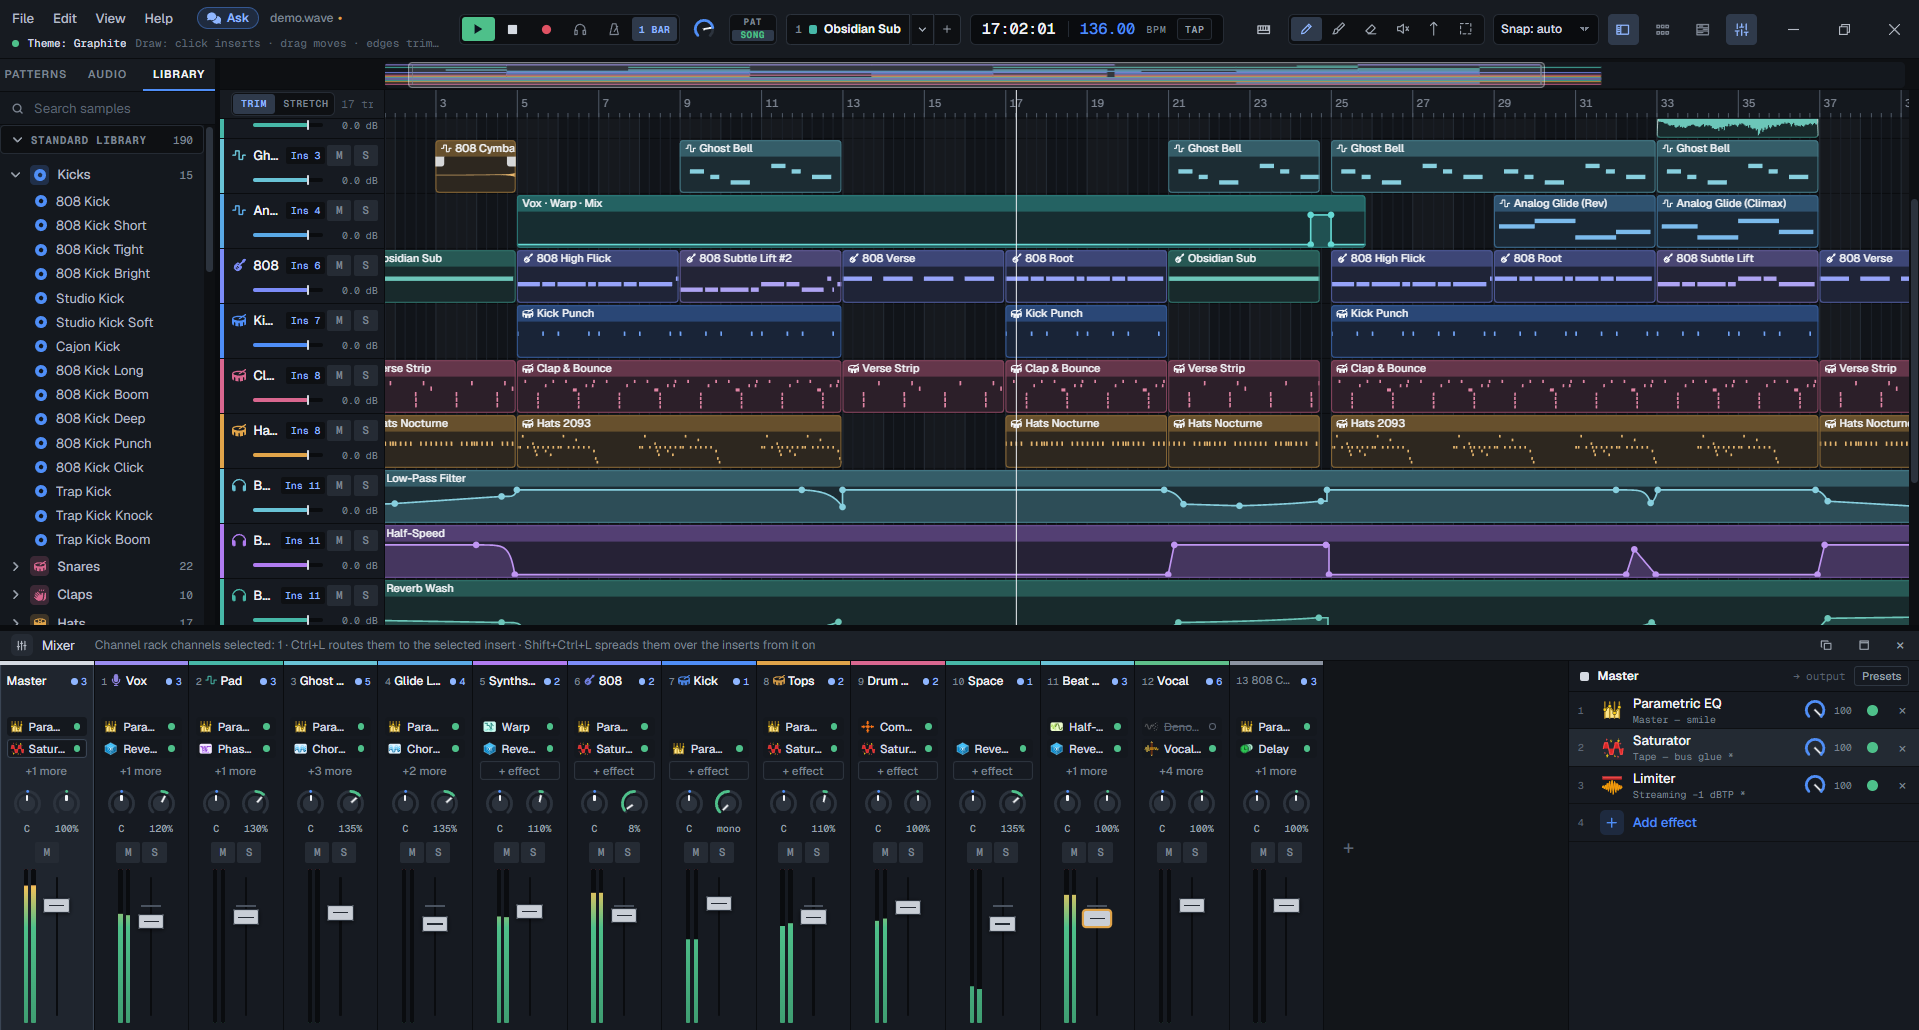
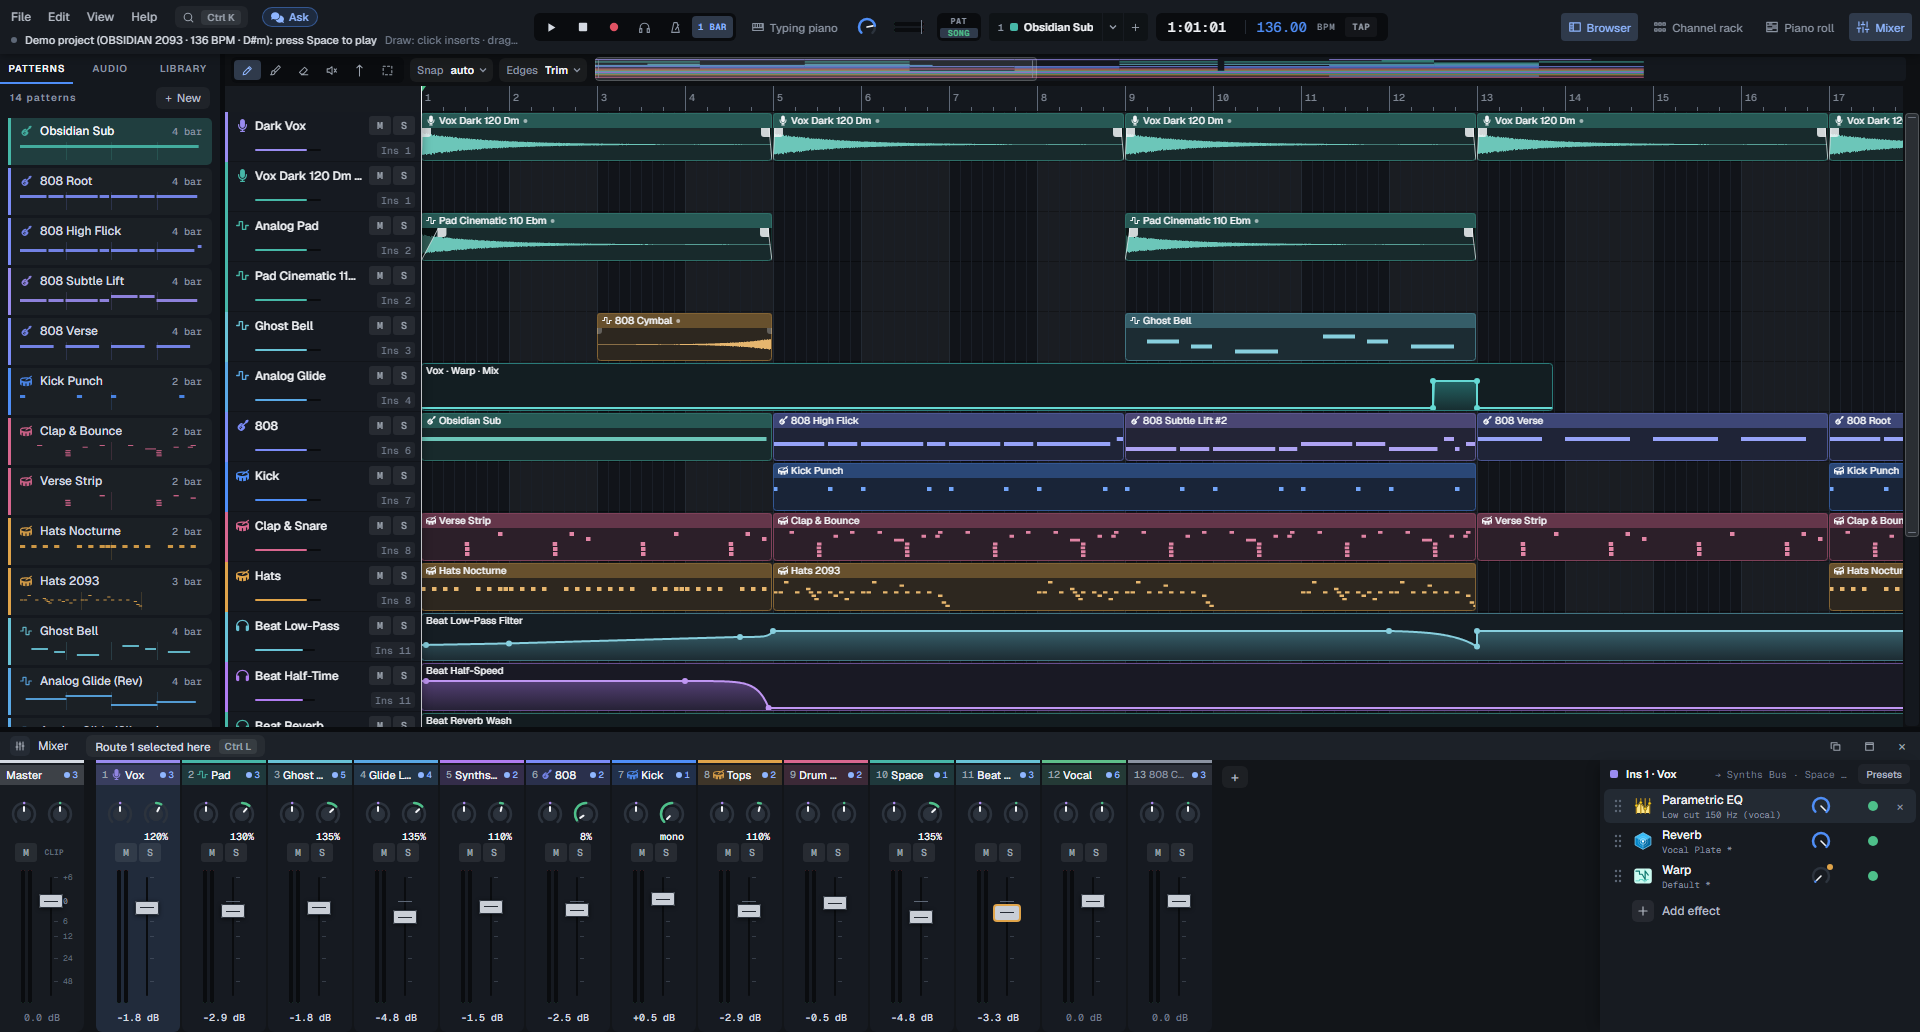
New look on the site and README hero; before/after images and changelog entries for the next release (#186)

diff --git a/CHANGELOG.md b/CHANGELOG.md
@@ -7,6 +7,11 @@ shown in the app after an update and is published as the release notes (see
 ## Unreleased
 
 ### Added
+- **Find a command (Ctrl+K).** Type what you want to do; every menu command is there with its
+  shortcut, what you have selected comes first, and a question that is not a command goes to Ask AI.
+- **Pan per note.** The Piano roll's lower lane switches between Velocity and Pan; drag to pan
+  notes left and right, or type it in a note's properties. Plays on sampler, Synth and Synkopa Keys
+  channels (not on plugins).
 - **Stereo.** Width (0 % mono … 200 %), Spread to widen even a mono synth or vocal without any
   loss when the song is summed to mono, Bass mono to keep everything under 120 Hz (or your
   frequency) in the centre for clubs and phones, gain and balance; polarity and L/R swap under
@@ -32,6 +37,19 @@ shown in the app after an update and is published as the release notes (see
   100 % wet plate for a send. The old presets keep their places.
 
 ### Changed
+- **A calmer look.** Panels, mixer channels, windows and menus are told apart by their tone and a
+  soft shadow instead of outlines; floating windows stand a step off the app behind them. Buttons
+  and fields are filled blocks, so what can be clicked reads at a glance.
+- **Piano roll bar, rebuilt.** Tools as one switch, Snap as a chip (with Auto), the song's key shown
+  as a badge with its scale on a small keyboard, and Humanize and the other note tools behind
+  "Tools" with icons and sliders. The Playlist bar is built from the same pieces.
+- **Playlist.** Track names are shown in full (the mixer insert sits beside the volume). Automation
+  clips read as curves. Audio clips show stretch, pitch and gain only when selected; a small dot
+  marks a clip that has any. A muted track's M stays lit while the rest of the track fades.
+- **Mixer.** A dB scale on the faders, the Master set apart, a grip on effect rows, and a "Route
+  selected here" button when Channel rack channels are selected.
+- **The effect picker opens in the middle of the app** instead of beside the pointer.
+- **Dim labels are easier to read** in the dark theme.
 - **Effect windows are tidier.** Each group of controls sits in its own frame, packed closer, and
   the how-to line that took the bottom of every window now sits behind a ? in the title bar.
 - **A clearer Reverb window.** The picture now shows what you hear: how long each frequency rings

diff --git a/docs/release-notes/next/README.md b/docs/release-notes/next/README.md
@@ -1,0 +1,17 @@
+# Before / after for the next release notes
+
+The same views of the demo project in 0.9.26 (left) and after the look pass (right), taken in the
+browser mock at 1440×900. Put them in the release body of the next version, under the CHANGELOG
+section, then rename this folder to the version number.
+
+| View | Image |
+|---|---|
+| Playlist with the mixer | `main.png` |
+| Playlist | `playlist.png` |
+| Channel rack | `channel-rack.png` |
+| Piano roll | `piano-roll.png` |
+| Library | `library.png` |
+| Mixer | `mixer.png` |
+
+In a release body, link them by their raw URL on the release tag, for example
+`https://raw.githubusercontent.com/miskibin/synkopa/<tag>/docs/release-notes/<version>/playlist.png`.
